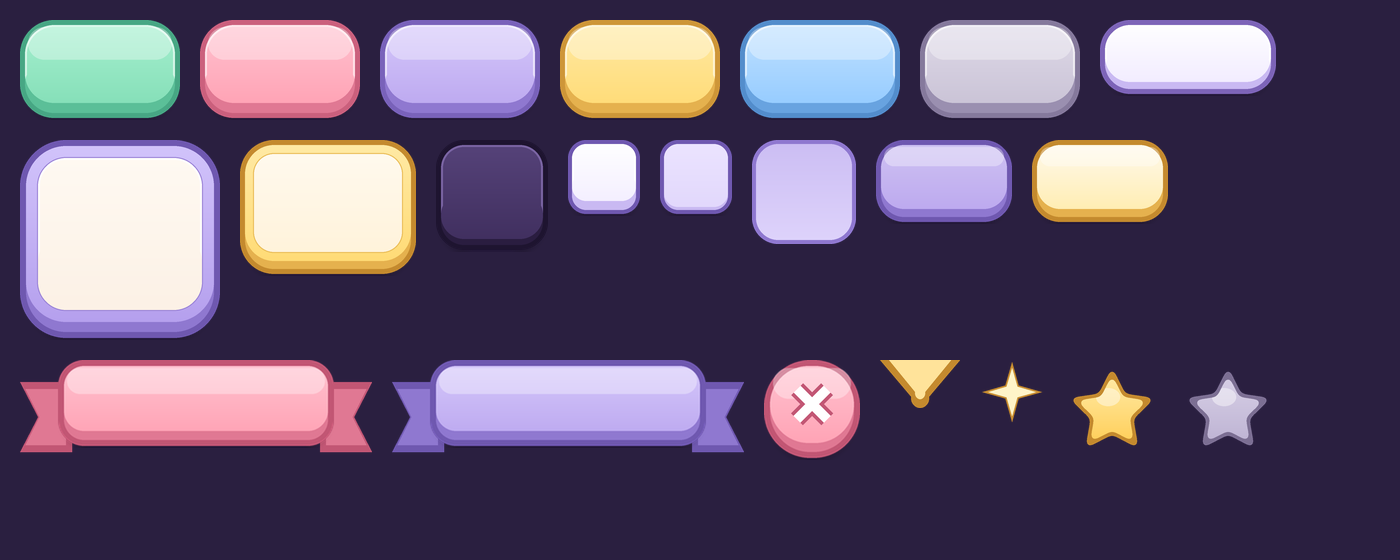
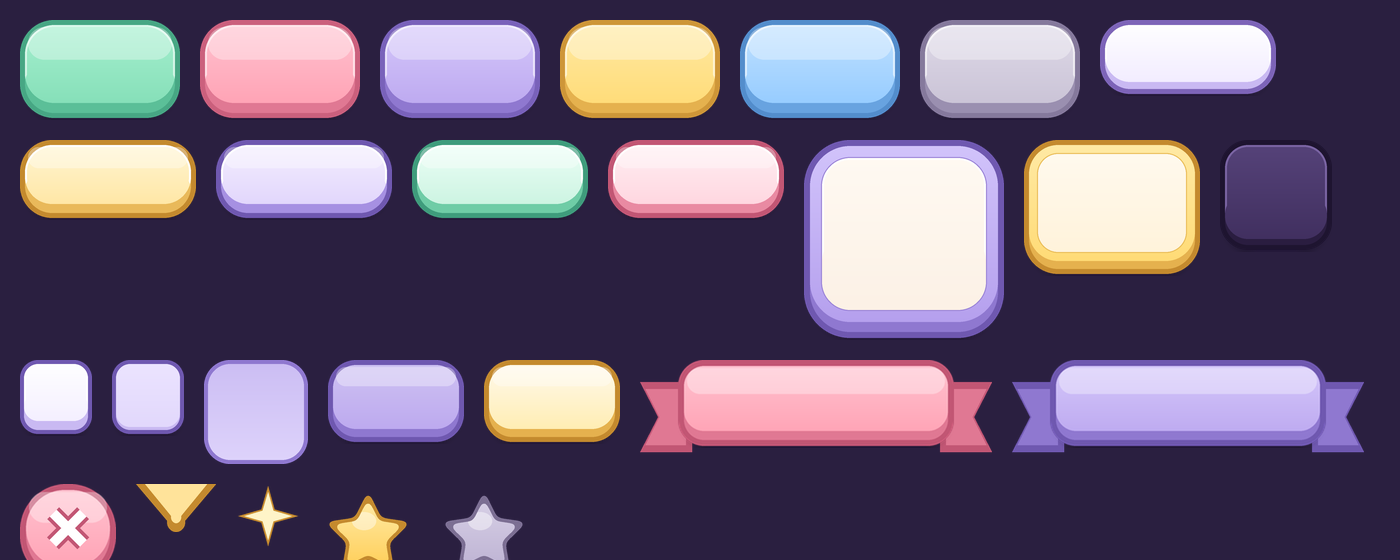
Give the HUD puffy tone-on-tone pills in butter, lilac, mint and pink, with the gold, coin and torch pills in butter and the bag, location and fear pills in lilac. Key hints now sit inside the rail and DIG buttons.

diff --git a/art/pd_ui_soft.py b/art/pd_ui_soft.py
@@ -99,6 +99,10 @@ for n, (o, l, t, b) in P.items():  # softer outline (toward the lip colour) and 
     save(n, shape(160, 100, 34, 5, 10, mix(o, l, 0.3), l, t, b, gloss=0.42, inner=H("#ffffff", 150)), (42, 40, 118, 52))
 # HUD pill: lilac-white, rounded ends
 save("pill", shape(176, 76, 30, 5, 7, H("#7d64b8"), H("#c9b9f2"), H("#ffffff"), H("#efe8ff"), gloss=0.0, inner=H("#ffffff")), (40, 31, 136, 37))
+# puffy tone-on-tone HUD pills (kit round 4, 2026-11-08): face, lip and outline all in one hue, a taller lip and a gloss band
+for n, (o_, l_, t_, b_) in {"pillButter": ("#c48a2e", "#e9b95a", "#fff6d6", "#ffe39a"), "pillLilac": ("#6f58b0", "#a690e2", "#f5f0ff", "#ddd0fb"),
+                            "pillMint": ("#3f9c7c", "#6fcca6", "#effff8", "#c4f1dc"), "pillPink": ("#c25674", "#e98aa2", "#fff1f4", "#ffd0db")}.items():
+    save(n, shape(176, 80, 32, 5, 9, H(o_), H(l_), H(t_), H(b_), gloss=0.36, inner=H("#ffffff")), (40, 33, 136, 41))
 # popup panel: cream face inside a lilac frame band
 save("panel", shape(200, 200, 46, 6, 10, H("#6f58b0"), H("#8f78d0"), H("#fffaf3"), H("#fbefe3"), gloss=0.0, frame=12, frame_top=H("#d2c4fb"), frame_bot=H("#b29cec"), inner=H("#ffffff", 200)), (64, 64, 136, 126))
 # card: cream face in a butter frame (tooltips, banners)
